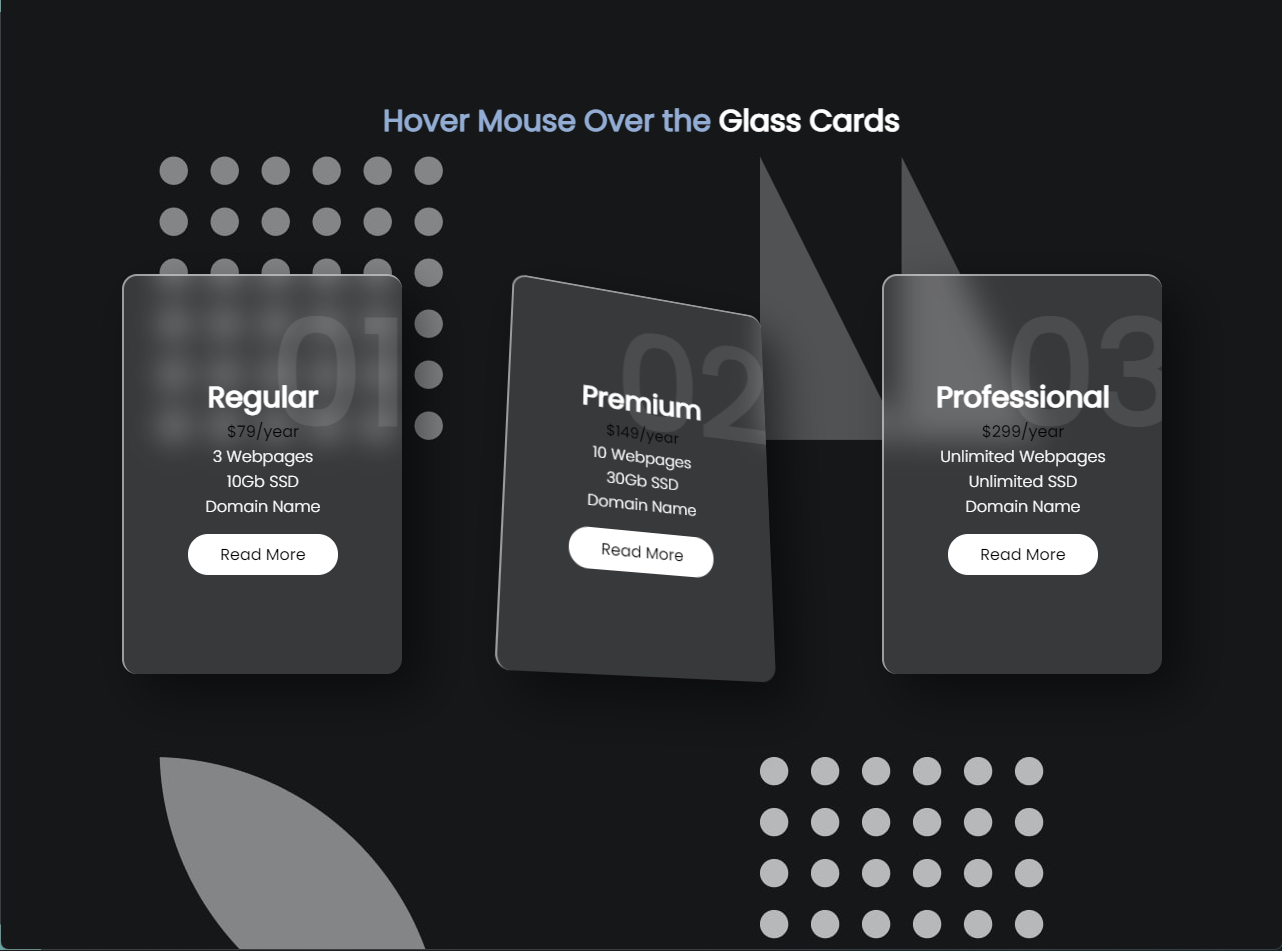
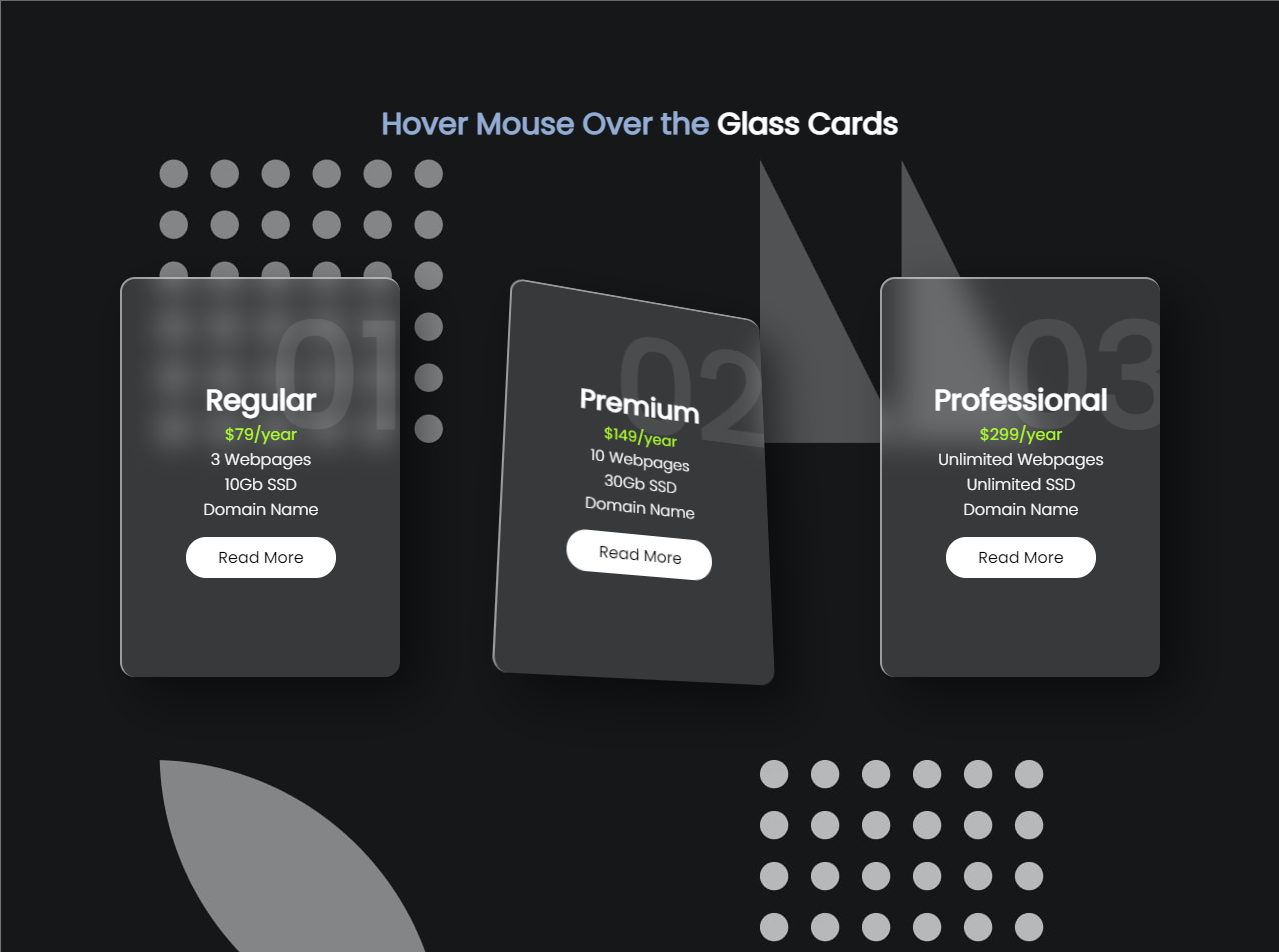
Images change

diff --git a/Projects/Glassomorph/glassprojcss.css b/Projects/Glassomorph/glassprojcss.css
@@ -107,6 +107,10 @@ body {
     z-index: 1;
 }
 
+.container .card .content .price {
+    color: greenyellow;
+}
+
 .container .card .content ul {
     font-size: 1em;
     color: #fff;
@@ -123,5 +127,4 @@ body {
     color: #000;
     border-radius: 20px;
     text-decoration: none;
-    
 }
